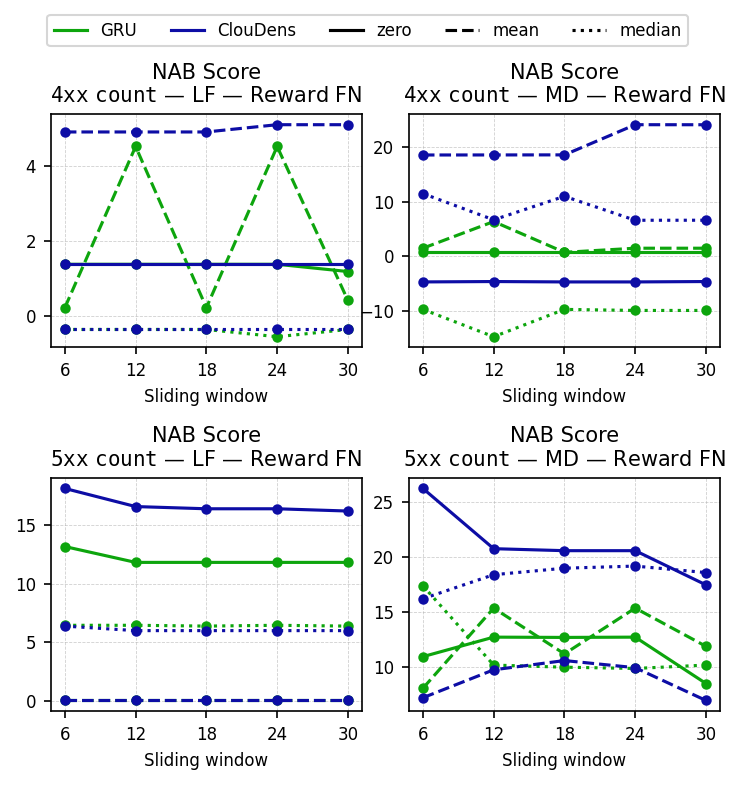
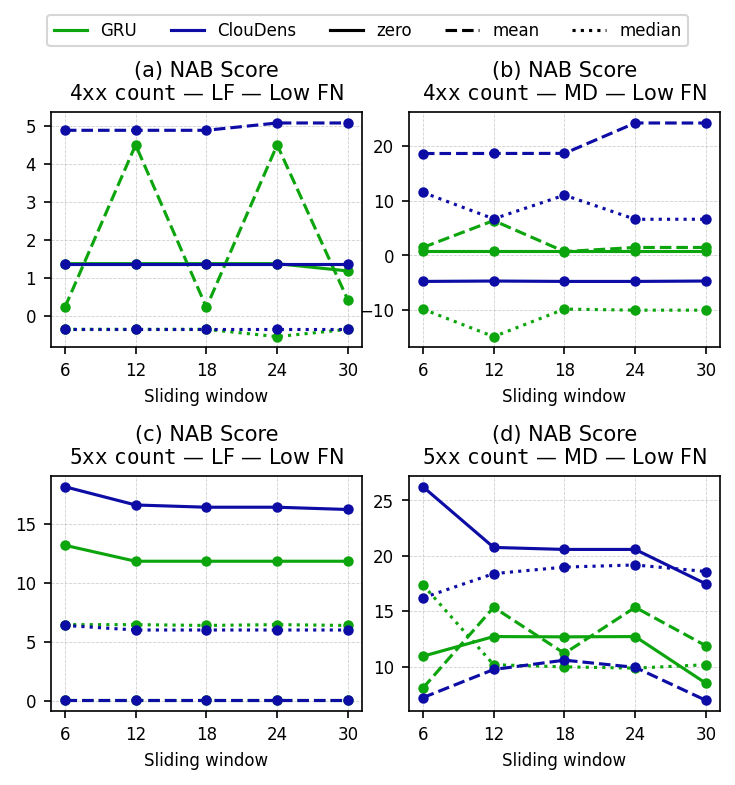
update

diff --git a/src/analysis_results.py b/src/analysis_results.py
@@ -1448,7 +1448,9 @@ def plot_table_and_nab_score_together(
         f'{SCORING_STRATEGY_DISPLAY_SHORT_NAME_MAP.get(s, s)}: {t} triangle'
         for s, t in SCORING_STRATEGY_TRIANGLE_MAP.items()
     )
-    ax_table.set_title(strategy_triangle_note, fontsize=TICK_FONT_SIZE)
+    ax_table.set_title(f'({_subplot_order_label(0)}) Detected anomalies captured by two scoring strategies.\n{strategy_triangle_note}',
+                       fontsize=TICK_FONT_SIZE,
+                       fontweight='bold')
 
     # Each bar chart panel is rotated to horizontal bars so a subset's score
     # lines up with that subset's row in the table; one panel per nab_profile
@@ -1456,7 +1458,7 @@ def plot_table_and_nab_score_together(
     bar_height = 0.7 / n_strategies
     y = np.arange(len(subsets))
 
-    for ax_bars, profile in zip(ax_bars_list, nab_profiles):
+    for bar_panel_idx, (ax_bars, profile) in enumerate(zip(ax_bars_list, nab_profiles), start=1):
         profile_scores = scores[profile]
 
         all_scores = np.concatenate(list(profile_scores.values())) if subsets else np.array([0])
@@ -1480,8 +1482,12 @@ def plot_table_and_nab_score_together(
             ax_bars.bar_label(bars, labels=bar_value_labels, fontsize=TICK_FONT_SIZE, padding=2)
             _round_bar_corners(bars)
 
+        ax_bars.set_title(f'({_subplot_order_label(bar_panel_idx)}) NAB score\nunder {NAB_PROFILE_DISPLAY_NAME_MAP.get(profile, profile)} profile.',
+                          fontsize=TICK_FONT_SIZE,
+                          fontweight='bold'
+                          )
         ax_bars.set_xlabel(
-            f'NAB score\nunder {NAB_PROFILE_DISPLAY_NAME_MAP.get(profile, profile)} profile',
+            f'NAB score',
             fontsize=TITLE_FONT_SIZE
         )
         ax_bars.tick_params(axis='x', labelsize=TICK_FONT_SIZE)
@@ -1499,13 +1505,13 @@ def plot_table_and_nab_score_together(
     ax_table.legend(
         handles=anomaly_source_handles, title='Anomaly Source',
         fontsize=LEGEND_FONT_SIZE, title_fontsize=LEGEND_FONT_SIZE,
-        loc='lower center', bbox_to_anchor=(0.5, 1.1),
+        loc='lower center', bbox_to_anchor=(0.5, 1.15),
         ncol=len(anomaly_source_handles), frameon=True,
     )
     ax_bars_list[0].legend(
         title='Scoring strategy',
         fontsize=LEGEND_FONT_SIZE, title_fontsize=LEGEND_FONT_SIZE,
-        loc='lower center', bbox_to_anchor=(0.5, 1.1),
+        loc='lower center', bbox_to_anchor=(0.5, 1.15),
         ncol=n_strategies, frameon=True,
     )
 

diff --git a/src/plot_figures.py b/src/plot_figures.py
@@ -477,6 +477,10 @@ def plot_only_time_series(dataloader, out_dir=None,
     plot_index = pd.to_datetime(index[:T0])
     plot_series = mean_series[:T0]
 
+    test_labels = np.array(dataloader.test_labels).ravel()[:T0]
+    n_anomalous = int((test_labels == 1).sum())
+    print(f'Number of anomalous timestamps in testing data: {n_anomalous} / {T0}')
+
     fig, ax = plt.subplots(figsize=(12, 2.5), constrained_layout=True)
 
     ax.plot(plot_index, plot_series, color='steelblue', linewidth=0.8)
